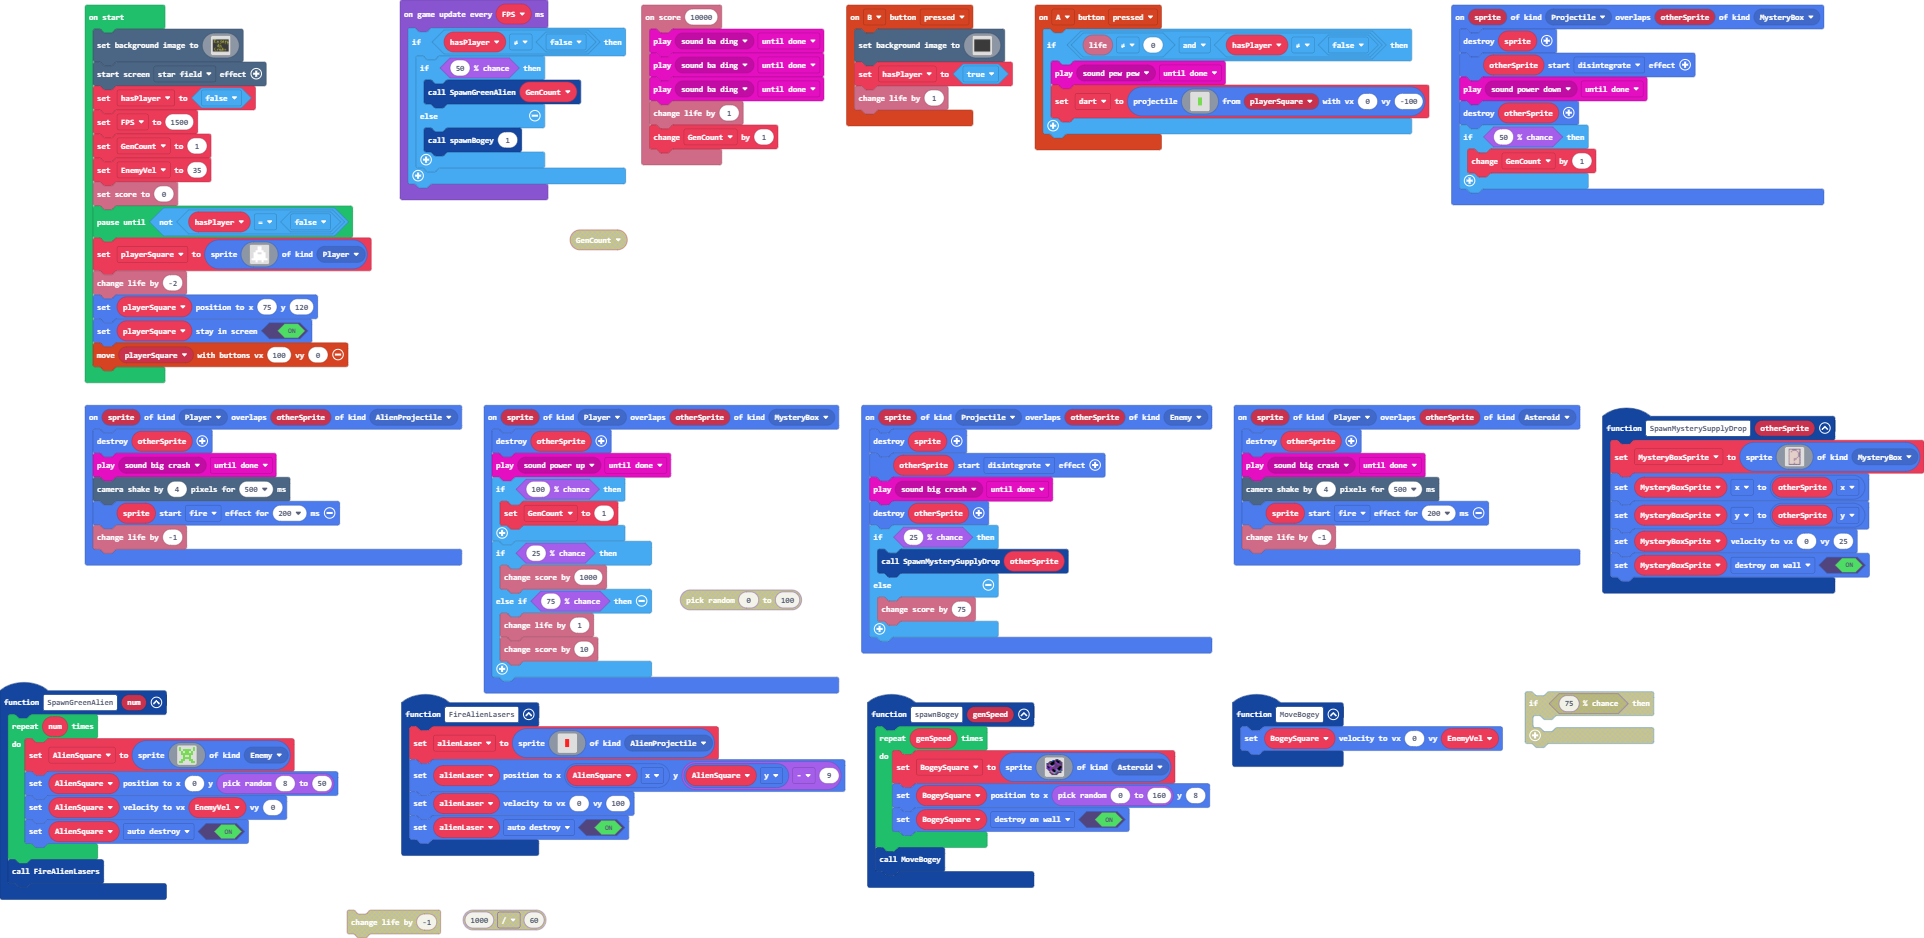
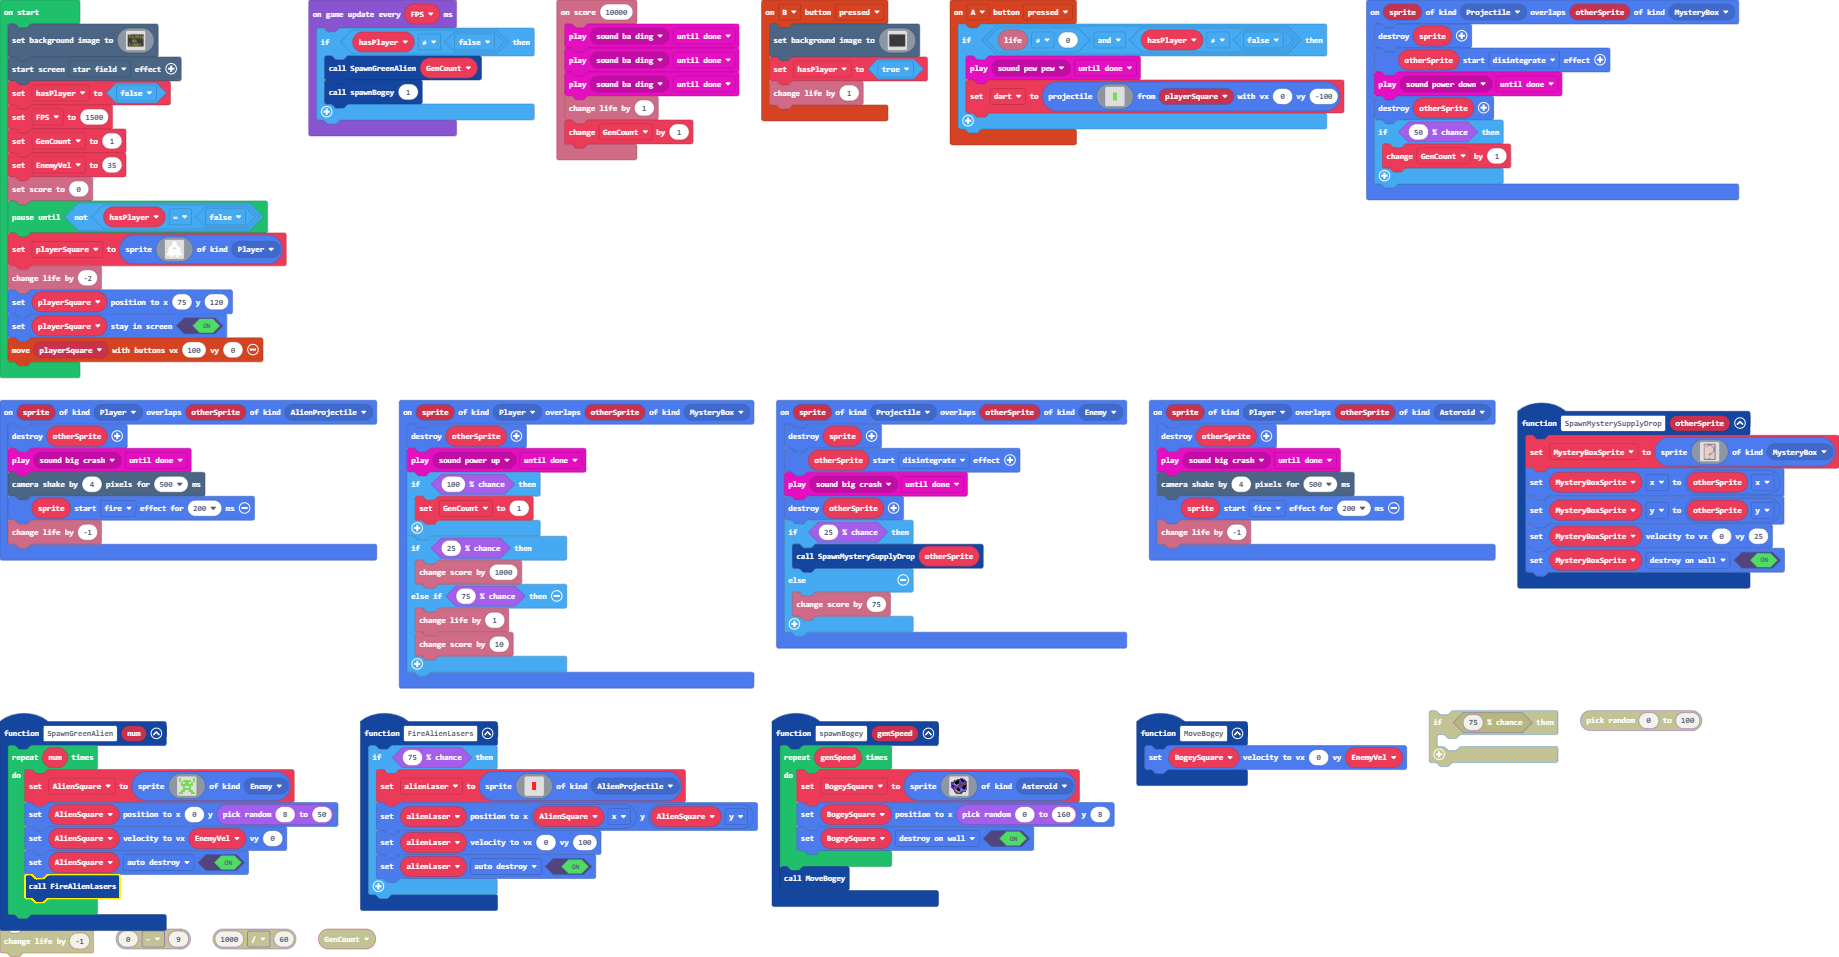
Update main.blocks, main.ts

diff --git a/main.ts b/main.ts
@@ -40,8 +40,8 @@ function SpawnGreenAlien (num: number) {
         AlienSquare.setPosition(0, randint(8, 50))
         AlienSquare.setVelocity(EnemyVel, 0)
         AlienSquare.setFlag(SpriteFlag.AutoDestroy, true)
+        FireAlienLasers()
     }
-    FireAlienLasers()
 }
 info.onScore(10000, function () {
     music.play(music.melodyPlayable(music.baDing), music.PlaybackMode.UntilDone)
@@ -78,10 +78,12 @@ sprites.onOverlap(SpriteKind.Player, SpriteKind.MysteryBox, function (sprite, ot
     }
 })
 function FireAlienLasers () {
-    alienLaser = sprites.create(assets.image`alien-laser`, SpriteKind.AlienProjectile)
-    alienLaser.setPosition(AlienSquare.x, AlienSquare.y - 9)
-    alienLaser.setVelocity(0, 100)
-    alienLaser.setFlag(SpriteFlag.AutoDestroy, true)
+    if (Math.percentChance(75)) {
+        alienLaser = sprites.create(assets.image`alien-laser`, SpriteKind.AlienProjectile)
+        alienLaser.setPosition(AlienSquare.x, AlienSquare.y)
+        alienLaser.setVelocity(0, 100)
+        alienLaser.setFlag(SpriteFlag.AutoDestroy, true)
+    }
 }
 sprites.onOverlap(SpriteKind.Player, SpriteKind.AlienProjectile, function (sprite, otherSprite) {
     sprites.destroy(otherSprite)
@@ -125,10 +127,7 @@ playerSquare.setStayInScreen(true)
 controller.moveSprite(playerSquare, 100, 0)
 game.onUpdateInterval(FPS, function () {
     if (hasPlayer != false) {
-        if (Math.percentChance(50)) {
-            SpawnGreenAlien(GenCount)
-        } else {
-            spawnBogey(1)
-        }
+        SpawnGreenAlien(GenCount)
+        spawnBogey(1)
     }
 })
